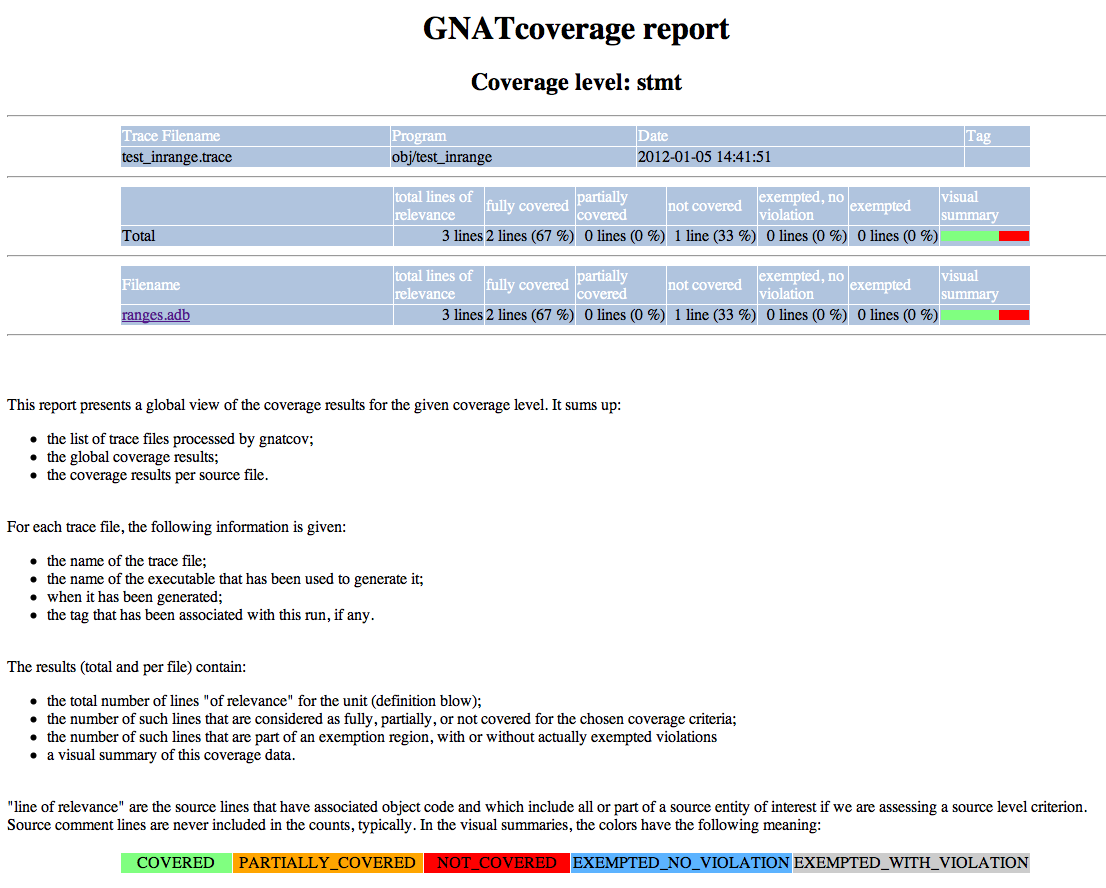
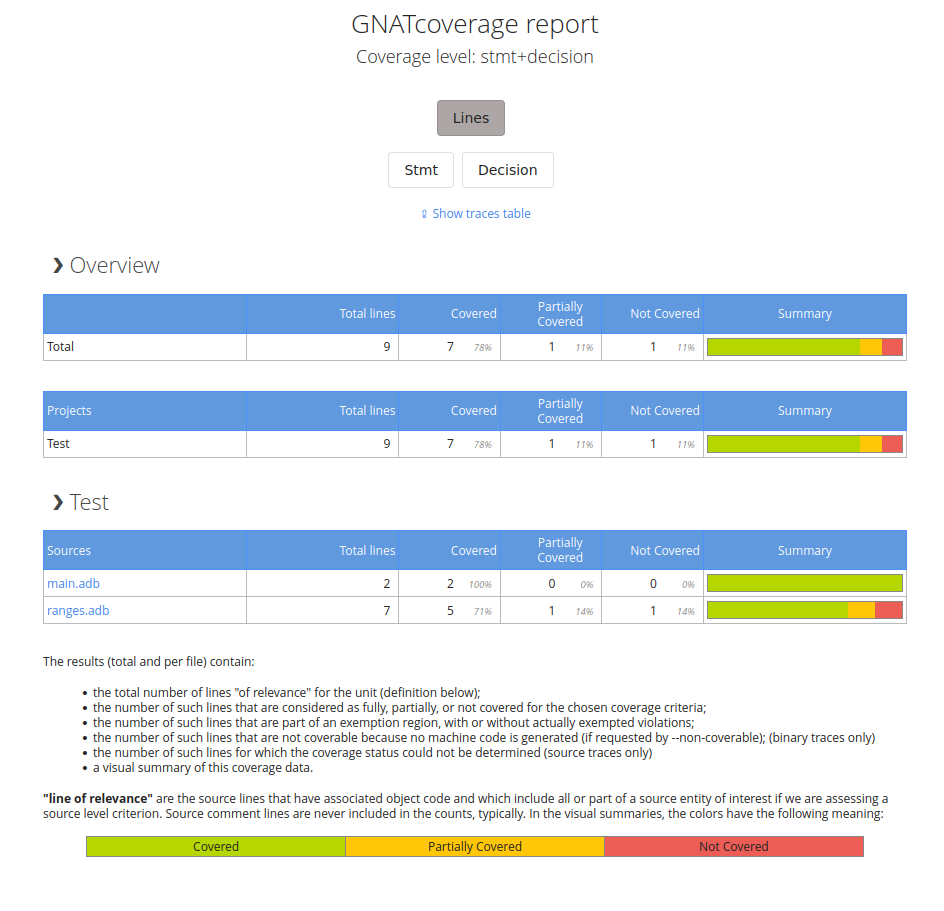
Remove mentions to html+ and dhtml in the documentation
Also update some figures to show the dhtml report, instead of the html
report, and update documentation regarding dhtml to fit better.

diff --git a/doc/gnatcov/cov_source.rst b/doc/gnatcov/cov_source.rst
@@ -51,13 +51,12 @@ The available options are as follows:
    :cmd-option:`stmt+uc_mcdc`, all explained later in this chapter.
 
 :cmd-option:`-a`, :cmd-option:`--annotate` |marg|:
-   Request one or more output report formats.  All the criteria support
-   ``xcov[+]``, ``html[+]``, ``dhtml`` and ``report`` formats, with
-   interpretations that vary depending on the assessed criteria. See the
-   corresponding documentation later in this chapter for more details.
-   This option accepts comma separated values and/or can be specified
-   mulitple times on the command line, in which case there will be one
-   report produced for each of the requested formats.
+   Request one or more output report formats. All the criteria support
+   ``xcov[+]``, ``html`` and ``report`` formats, with interpretations that vary
+   depending on the assessed criteria. See the corresponding documentation later
+   in this chapter for more details. This option accepts comma separated values
+   and/or can be specified mulitple times on the command line, in which case
+   there will be one report produced for each of the requested formats.
 
 :cmd-option:`-o` :
    Request that the synthetic report produced by ``--annotate=report`` be
@@ -184,7 +183,7 @@ the following sections::
 
   gnatcov coverage --level=stmt+decision --scos=@alis --annotate=html t1 t2
   # Statement and Decision coverage assessments for two traces "t1" and "t2",
-  # producing html report files in the current directory.
+  # producing an html report in the current directory.
 
   gnatcov coverage --level=stmt+decision --scos=@alis --annotate=html @mytraces
   # Same report, with t1 and t2 listed in the "mytraces" text file
@@ -205,13 +204,12 @@ Output report formats (:cmd-option:`--annotate`)
 
 Source coverage reports may be produced in various formats, as requested with
 the :cmd-option:`--annotate` command line argument of |gcvcov|. The
-:cmd-option:`xcov`, :cmd-option:`html` and :cmd-option:`dhtml` formats produce
-a set of annotated source files, in the directory where |gcv| is launched
-unless overriden with a :cmd-option:`--output-dir` option. The
-:cmd-option:`report` output consists in a synthetic text report of
-:term:`coverage violations <Coverage Violation>` with respect to the requested
-criteria, produced on standard output by default or in the file specified by
-the :cmd-option:`-o` command line option.
+:cmd-option:`xcov` and :cmd-option:`html` formats produce a set of annotated
+source files, in the directory where |gcv| is launched unless overriden with a
+:cmd-option:`--output-dir` option. The :cmd-option:`report` output consists in a
+synthetic text report of :term:`coverage violations <Coverage Violation>` with
+respect to the requested criteria, produced on standard output by default or in
+the file specified by the :cmd-option:`-o` command line option.
 
 Later in this chapter we name output formats by the text to add to
 :cmd-option:`--annotate` on the command line. For example, we use "the
@@ -296,59 +294,44 @@ improperly satisfied obligation is an uncovered statement on line 7::
    7 -:          return V >= X2 and then V <= X1;
    STATEMENT "return V ..." at 7:10 not executed
 
-Annotated sources, html (:cmd-option:`=html[+]`)
-------------------------------------------------
 
-For source coverage criteria, |gcvcov| :cmd-option:`--annotate=html` produces
-an annotated version of each source file, in html format, named after the
-original source with an extra ``.html`` extension at the end.  Each annotated
-source page contains a summary of the assessment results followed by the
-original source lines, all numbered and marked with a coverage annotation as in
-the :cmd-option:`--annotate=xcov` case. Lines with obligations are colorized in
-green, orange or red for ``+``, ``!`` or ``-`` coverage respectively.
+Annotated sources, html (:cmd-option:`=html`)
+---------------------------------------------
 
-An `index.html` page is also produced, which contains a summary of the
-assessment context (assessed criteria, trace files involved, ...) and of the
-coverage results for all the units, with links to their annotated sources.
+For source coverage criteria, |gcvcov| :cmd-option:`--annotate=html` produces an
+index-based report under the HTML format (the other command names are aliases
+for backward compatibility).
+
+To navigate the report, open the index.html file using the browser of your
+choice. This index file contains a summary of the assessment context (assessed
+criteria, trace files involved, ...) and of the coverage results for all the
+units, with links to their annotated sources. If the :cmd-option:`-P` was used
+to designate the source units of interest, sources are indexed per-project.
+
+Note that some dynamic filtering / sorting can be applied:
+
+* Filter by kind of coverage obligations: either reporting on lines, or on
+  statement / decision / MCDC (one or several) obligations, depending on the
+  coverage level. See :ref:`synthetic-metrics` for more information.
+
+* Sort indexes by clicking on column headers, allowing for example sorts keyed
+  on unit names or on relative coverage achievement.
+
 See our :ref:`sample html index <sample_sc_html_index>` appendix for an
 example index page, which embeds a self-description of all the items it
-contains. See the :ref:`sample annotated source <sample_sc_html_unit>`
-appendix for a sample of html annotated source.
+contains.
 
-The page style is governed by a set of Cascading Style Sheet (CSS) parameters,
-fetched from a ``xcov.css`` file in the directory where |gcv| is launched. If
-this file is available when |gcv| starts, |gcv| uses it so users may setup a
-customized version if needed. If the file is not available, |gcv| creates a
-default one.
+The user can browse through an annotated version of the sources from the index.
+Each annotated source page contains a summary of the assessment results. This
+summary can be expanded to print subprogram metrics: the user can click on a
+subprogram's metrics to access it in the annotated source immediately. This
+summary is followed by the original source lines, all numbered and marked with a
+coverage annotation as in the :cmd-option:`--annotate=xcov` case. Lines with
+obligations are colorized in green, orange or red for ``+``, ``!`` or ``-``
+coverage respectively.
 
-Similarily to the :cmd-option:`xcov` format case,
-:cmd-option:`--annotate=html+` (with a trailing +) adds details about
-improperly satisfied obligations.  In the html version, these extra details are
-initially folded within their associated line and expanded by a mouse click on
-the line.
-
-Annotated sources, dynamic html (:cmd-option:`=dhtml`)
-------------------------------------------------------
-
-:cmd-option:`--annotate=dhtml` produces a *dynamic html* output, which
-essentially features:
-
-* A more modern look & feel compared to the :cmd-option:`html` formats
-  described earlier,
-
-* The ability to sort indexes by clicking on column headers, allowing for
-  example sorts keyed on unit names or on relative coverage achievement,
-
-* Per-project indexes on the root page when :cmd-option:`-P` was used to
-  designate the source units of interest.
-
-The option produces a set of `.js` javascript files implementing most of the
-report displays and interactions, as well as an `index.html` root page which
-users should open as an entry point to the report contents.
-
-The per-line details that differentiates :cmd-option:`html+` from
-:cmd-option:`html` are always produced, initially folded and available on line
-clicks as well.
+See the :ref:`sample annotated source <sample_sc_html_unit>` appendix for a
+sample of html annotated source.
 
 
 Violations summary, text (:cmd-option:`=report`)
@@ -827,8 +810,9 @@ following table summarizes the meaning of the possible annotations:
 absence of other known violations for that same line.
 
 When a trailing `+` is added to the format passed to :cmd-option:`--annotate`
-(:cmd-option:`=xcov+` or :cmd-option:`=html+`), a precise description of the
-actual violations is available for each line in addition to the annotation.
+(:cmd-option:`=xcov+`), a precise description of the actual violations is
+available for each line in addition to the annotation. The :cmd-option:`=html`
+provides it by default.
 
 Example program and assessments
 -------------------------------
@@ -1444,14 +1428,14 @@ kind involved in the assessed level (here, for
 total number of obligations of the given kind and the ratio of such
 obligations which have been fully discharged. The ``xcov`` obligation
 metrics don't distinguish partially covered from uncovered items. This
-information is available from the ``dhtml`` reports.
+information is available from the ``html`` report.
 
-For the ``dhtml`` output, synthetic metrics for all the units are
+For the ``html`` output, synthetic metrics for all the units are
 first displayed on the index page, together with metrics for the
 entire analysis and for sets of units grouped by GPR project.
 
 Initially, the line count based metrics are displayed, as illustrated
-by :numref:`dhtml-index-lines`. The main procedure source used in our ``xcov``
+by :numref:`html-index-lines`. The main procedure source used in our ``xcov``
 report example is the ``main.adb`` source here, single source encompassed
 by the ``main.gpr`` project:
 
@@ -1461,25 +1445,25 @@ names ("Stmt", "Decision" or "Mcdc").
 
 Each kind of obligation can be selected alone. Selecting multiple
 kinds is also allowed and just sums the individual counts.
-:numref:`dhtml-index-obligations` illustrates the results we get with
+:numref:`html-index-obligations` illustrates the results we get with
 the ``Stmt`` and ``Decision`` kinds selected together for our previous
 example:
 
-.. _dhtml-index-lines:
+.. _html-index-lines:
 
-.. figure:: dhtml-index-lines.*
+.. figure:: html-index-lines.*
   :scale: 42%
   :align: center
 
-  Dhtml index with line count based synthetic metrics
+  Html index with line count based synthetic metrics
 
-.. _dhtml-index-obligations:
+.. _html-index-obligations:
 
-.. figure:: dhtml-index-obligations.*
+.. figure:: html-index-obligations.*
   :scale: 42%
   :align: center
 
-  Dhtml index with obligations count based synthetic metrics (stmt+decision)
+  Html index with obligations count based synthetic metrics (stmt+decision)
 
 
 .. _rebase_opts:
@@ -1488,11 +1472,10 @@ Handling source relocation for annotated sources output formats
 ===============================================================
 
 For all annotated sources output formats
-(:cmd-option:`--annotate=xcov[+]|html[+]|dhtml)`, |gcv| needs access
-to the sources of the :term:`units of interest <Units of Interest>` to
-generate the output. The tool searches for sources in some default
-locations which are usually correct when the whole coverage analysis
-process is done on the same machine.
+(:cmd-option:`--annotate=xcov[+]|html)`, |gcv| needs access to the sources of
+the :term:`units of interest <Units of Interest>` to generate the output. The
+tool searches for sources in some default locations which are usually correct
+when the whole coverage analysis process is done on the same machine.
 
 When coverage reports are produced on a different machine than the one
 where the coverage run was done, or when sources are moved in the

diff --git a/doc/gnatcov/cov_object.rst b/doc/gnatcov/cov_object.rst
@@ -71,13 +71,12 @@ The available options are as follows:
    explained later in this chapter.
 
 :cmd-option:`-a`, :cmd-option:`--annotate` |marg|:
-   Request a specific output report format.  The two possible criteria support
-   ``xcov[+]``, ``html[+]``, ``dhtml`` and ``asm``, with interpretations that
-   vary  depending on the assessed criteria. See the corresponding
-   documentation later in this chapter for more details.
-   This option accepts comma separated values and/or can be specified multiple
-   times on the command line, in which case there will be one report produced
-   for each of the requested annotation formats.
+   Request a specific output report format. The two possible criteria support
+   ``xcov[+]``, ``html``, and ``asm``, with interpretations that vary depending
+   on the assessed criteria. See the corresponding documentation later in this
+   chapter for more details. This option accepts comma separated values and/or
+   can be specified multiple times on the command line, in which case there will
+   be one report produced for each of the requested annotation formats.
 
 .. include:: cov_common_switches.rst
 
@@ -118,11 +117,11 @@ The :cmd-option:`asm` format produces an annotated assembly output, with a
 coverage indication attached to every single instruction. This is the base
 information of interest to object coverage analysis, simply presented in
 different manners through the other possible output formats. The
-:cmd-option:`xcov`, :cmd-option:`html`, and :cmd-option:`dhtml` formats produce
-a set of annotated source files, in the directory where |gcv| is launched
-unless overriden with a :cmd-option:`--output-dir` option. Even though
-presented on sources, the annotations remain representative of object coverage
-metrics, synthesized for all the instructions associated with each source line.
+:cmd-option:`xcov` and :cmd-option:`html` formats produce a set of annotated
+source files, in the directory where |gcv| is launched unless overriden with a
+:cmd-option:`--output-dir` option. Even though presented on sources, the
+annotations remain representative of object coverage metrics, synthesized for
+all the instructions associated with each source line.
 
 Later in this chapter we name output formats by the text to add to
 :cmd-option:`--annotate` on the command line. For example, we use "the
@@ -257,37 +256,24 @@ With :cmd-option:`--annotate=xcov+` (extra ``+`` at the end), the machine
 instructions and their individual coverage status are printed next to their
 associated source line.
 
-Annotated sources, html (:cmd-option:`=html[+]`) or dynamic html (:cmd-option:`=dhtml`)
+Annotated sources, html (:cmd-option:`=html`)
 ---------------------------------------------------------------------------------------
 
-For object coverage criteria, |gcvcov| :cmd-option:`--annotate=html` produces
-an annotated version of each source file, in html format, named after the
-original source with an extra ``.html`` extension at the end.  Each annotated
-source page contains a summary of the assessment results followed by the
-original source lines, all numbered and marked with a coverage annotation as in
-the :cmd-option:`--annotate=xcov` case. In addition, lines with obligations are
+For object coverage criteria, |gcvcov| :cmd-option:`--annotate=html` produces an
+annotated version of each source file. Each annotated source page contains a
+summary of the assessment results followed by the original source lines, all
+numbered and marked with a coverage annotation as in the
+:cmd-option:`--annotate=xcov` case. In addition, lines with obligations are
 colorized in green, orange or red for ``+``, ``!`` or ``-`` coverage
 respectively. An `index.html` page is also produced, which contains a
 description of the assessment context (assessed criteria, set of trace files
 involved, ...) and a summary of the coverage results for all the units, with
 links to their annotated sources.
 
-Similarily to the :cmd-option:`xcov` format case,
-:cmd-option:`--annotate=html+` (with a trailing +) attaches to each line
-details about the coverage status of all the individual instructions generated
-for the line. These are folded within the line and expanded when a mouse click
-hits it.
-
-The page style is governed by a set of Cascading Style Sheet (CSS) parameters,
-fetched from a ``xcov.css`` file in the directory where |gcv| is launched. If
-this file is available when |gcv| starts, |gcv| uses it so users may setup a
-customized version if needed. If the file is not available, |gcv| creates a
-default one.
-
-As for source coverage criteria, the :cmd-option:`dhtml` variant produces a
-more elaborate kind of report, with sortable columns and per-project indexes on
-the root page when the units of interest were specified using the
-:cmd-option:`-P` option.
+Similarily to the :cmd-option:`xcov` format case, :cmd-option:`--annotate=html`
+attaches to each line details about the coverage status of all the individual
+instructions generated for the line. These are folded within the line and
+expanded when a mouse click hits it.
 
 .. _ocov-insn:
 
@@ -656,7 +642,7 @@ the corresponding source line in the :cmd-option:`=xcov` output (``!`` on line
   12 +:    end Count;
   13 .: end Genpos;
 
-And the :cmd-option:`=xcov+` (or :cmd-option:`=html+`) output gathers
+And the :cmd-option:`=xcov+` (or :cmd-option:`=html`) output gathers
 everything together, with the blocks of instructions coming from different
 instances identifiable by the associated object symbol names::
 

diff --git a/doc/gnatcov/cov_common_switches.rst b/doc/gnatcov/cov_common_switches.rst
@@ -4,20 +4,20 @@
    is used by default.
 
 :cmd-option:`--output-dir` :
-   Request that the report files (index and annotated sources for the
-   ``xcov``, ``html`` and ``dhtml`` output formats) be output in the provided
-   directory. If not specified, the default is the root project's object
-   directory if using projects, and the current directory if not.
-   If more than one of the above annotation formats is requested, then each
-   report will be placed in a subdirectory named accordingly.
+   Request that the report files (index and annotated sources for the ``xcov``
+   and ``html`` output formats) be output in the provided directory. If not
+   specified, the default is the root project's object directory if using
+   projects, and the current directory if not. If more than one of the above
+   annotation formats is requested, then each report will be placed in a
+   subdirectory named accordingly.
 
 :cmd-option:`--report-title` :
-   Request that generated HTML documents (index and annotated sources for the
-   ``html`` and ``dhtml`` output formats) are assigned a customized title. For
-   instance, passing ``--report-title="Project ABC"`` will yield titles such
-   as: ``Project ABC - GNATcoverage Report``. If passed multiple times, passing
-   an empty string last will restore the default behavior. This option is
-   ignored is the selected output format does not support titles.
+   Request that generated HTML documents (index for the ``html`` output format)
+   are assigned a customized title. For instance, passing
+   ``--report-title="Project ABC"`` will yield titles such as: ``Project ABC -
+   GNATcoverage Report``. If passed multiple times, passing an empty string last
+   will restore the default behavior. This option is ignored is the selected
+   output format does not support titles.
 
 :cmd-option:`-T`, :cmd-option:`--trace` |marg|, |rarg| :
    Provide the set of execution traces for which a report is to be

diff --git a/doc/gnatcov/appendix.rst b/doc/gnatcov/appendix.rst
@@ -71,10 +71,9 @@ where <sloc> is a source-filename:line:column source location of the
 problematic line.
 
 In annotated sources kinds of outputs, this materializes as '!' note indicating
-partial coverage on the affected lines, with the :cmd-option:`=report`
-violation text quoted above available as part of the line extra-details
-expanded on demand (:cmd-option:`=html+` and :cmd-option:`xcov+` output
-formats).
+partial coverage on the affected lines, with the :cmd-option:`=report` violation
+text quoted above available as part of the line extra-details expanded on demand
+(:cmd-option:`=html` and :cmd-option:`xcov+` output formats).
 
 .. _mcdc-limitations:
 

diff --git a/doc/gnatcov/bin_intro.rst b/doc/gnatcov/bin_intro.rst
@@ -64,9 +64,9 @@ trace production modes:
      - Yes
    * - *New features*
      - Often not
-     - Yes (source level metrics for C++, scoped metrics in dhtml)
+     - Yes (source level metrics for C++, scoped metrics in html)
 
-      
+
 Workflow overview
 -----------------
 
